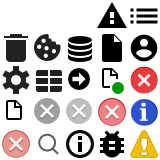
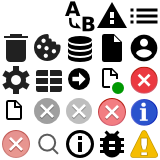
DevTools: revamp replace UI in searchable view
- Remove redundant Find/Previous buttons
- Replace "Replace" checkbox with cool icon
- 'Replace all' button is disabled when 'Replace' is
  also disabled

Screnshot: https://imgur.com/a/gp0SZ

Bug: 631163
Commit-Queue: Erik Luo <luoe@chromium.org>
Cr-Commit-Position: refs/heads/master@{#521438}

Changed region(s): [[0.4062, 0.0, 0.5938, 0.2188]]

diff --git a/front_end/ui/SearchableView.js b/front_end/ui/SearchableView.js
@@ -44,30 +44,18 @@ UI.SearchableView = class extends UI.VBox {
 
     this._searchProvider = searchable;
     this._setting = settingName ? Common.settings.createSetting(settingName, {}) : null;
+    this._replaceable = false;
 
     this.contentElement.createChild('content');
     this._footerElementContainer = this.contentElement.createChild('div', 'search-bar hidden');
     this._footerElementContainer.style.order = 100;
-
-    var toolbar = new UI.Toolbar('', this._footerElementContainer);
-
-    if (this._searchProvider.supportsCaseSensitiveSearch()) {
-      this._caseSensitiveButton = new UI.ToolbarToggle(Common.UIString('Case sensitive'), '');
-      this._caseSensitiveButton.setText('Aa');
-      this._caseSensitiveButton.addEventListener(UI.ToolbarButton.Events.Click, this._toggleCaseSensitiveSearch, this);
-      toolbar.appendToolbarItem(this._caseSensitiveButton);
-    }
-
-    if (this._searchProvider.supportsRegexSearch()) {
-      this._regexButton = new UI.ToolbarToggle(Common.UIString('Regex'), '');
-      this._regexButton.setText('.*');
-      this._regexButton.addEventListener(UI.ToolbarButton.Events.Click, this._toggleRegexSearch, this);
-      toolbar.appendToolbarItem(this._regexButton);
-    }
-
     this._footerElement = this._footerElementContainer.createChild('div', 'toolbar-search');
 
-    // Build the text input elements.
+    var replaceToggleToolbar = new UI.Toolbar('replace-toggle-toolbar', this._footerElement);
+    this._replaceToggleButton = new UI.ToolbarToggle(Common.UIString('Replace'), 'mediumicon-replace');
+    this._replaceToggleButton.addEventListener(UI.ToolbarButton.Events.Click, this._toggleReplace, this);
+    replaceToggleToolbar.appendToolbarItem(this._replaceToggleButton);
+
     var searchInputElements = this._footerElement.createChild('div', 'toolbar-search-inputs');
     var searchControlElement = searchInputElements.createChild('div', 'toolbar-search-control');
 
@@ -100,44 +88,42 @@ UI.SearchableView = class extends UI.VBox {
     this._replaceInputElement.addEventListener('keydown', this._onReplaceKeyDown.bind(this), true);
     this._replaceInputElement.placeholder = Common.UIString('Replace');
 
-    // Build the buttons (Find, Previous, Replace, Replace All).
-    this._buttonsContainer = this._footerElement.createChild('div', 'toolbar-search-buttons hidden');
+    this._buttonsContainer = this._footerElement.createChild('div', 'toolbar-search-buttons');
+    var firstRowButtons = this._buttonsContainer.createChild('div', 'first-row-buttons');
 
-    var findButtonElement =
-        UI.createTextButton(Common.UIString('Find'), this._onFindClick.bind(this), 'search-action-button');
-    findButtonElement.tabIndex = -1;
-    this._buttonsContainer.appendChild(findButtonElement);
+    var toolbar = new UI.Toolbar('', firstRowButtons);
 
-    var prevButtonElement =
-        UI.createTextButton(Common.UIString('Previous'), this._onPreviousClick.bind(this), 'search-action-button');
-    prevButtonElement.tabIndex = -1;
-    this._buttonsContainer.appendChild(prevButtonElement);
+    if (this._searchProvider.supportsCaseSensitiveSearch()) {
+      this._caseSensitiveButton = new UI.ToolbarToggle(Common.UIString('Case sensitive'));
+      this._caseSensitiveButton.setText('Aa');
+      this._caseSensitiveButton.addEventListener(UI.ToolbarButton.Events.Click, this._toggleCaseSensitiveSearch, this);
+      toolbar.appendToolbarItem(this._caseSensitiveButton);
+    }
+
+    if (this._searchProvider.supportsRegexSearch()) {
+      this._regexButton = new UI.ToolbarToggle('');
+      this._regexButton.setText('/regex/');
+      this._regexButton.addEventListener(UI.ToolbarButton.Events.Click, this._toggleRegexSearch, this);
+      toolbar.appendToolbarItem(this._regexButton);
+    }
+
+    var cancelButtonElement =
+        UI.createTextButton(Common.UIString('Cancel'), this.closeSearch.bind(this), 'search-action-button');
+    firstRowButtons.appendChild(cancelButtonElement);
+
+    this._secondRowButtons = this._buttonsContainer.createChild('div', 'second-row-buttons hidden');
 
     this._replaceButtonElement =
         UI.createTextButton(Common.UIString('Replace'), this._replace.bind(this), 'search-action-button');
     this._replaceButtonElement.disabled = true;
-    this._replaceButtonElement.tabIndex = -1;
-    this._buttonsContainer.appendChild(this._replaceButtonElement);
+    this._secondRowButtons.appendChild(this._replaceButtonElement);
 
-    var replaceAllButtonElement =
+    this._replaceAllButtonElement =
         UI.createTextButton(Common.UIString('Replace all'), this._replaceAll.bind(this), 'search-action-button');
-    this._buttonsContainer.appendChild(replaceAllButtonElement);
+    this._secondRowButtons.appendChild(this._replaceAllButtonElement);
+    this._replaceAllButtonElement.disabled = true;
 
-    // Build the replace checkbox and cancel button.
-    this._replaceElement = this._footerElement.createChild('div').createChild('span', 'toolbar-replace-checkbox');
-
-    var replaceLabelElement = UI.CheckboxLabel.create(Common.UIString('Replace'));
-    this._replaceCheckboxElement = replaceLabelElement.checkboxElement;
-    this._replaceCheckboxElement.addEventListener('change', this._updateSecondRowVisibility.bind(this), false);
-
-    this._replaceElement.appendChild(replaceLabelElement);
-
-    var cancelButtonElement =
-        UI.createTextButton(Common.UIString('Cancel'), this.closeSearch.bind(this), 'search-action-button');
-    cancelButtonElement.tabIndex = -1;
     this._minimalSearchQuerySize = 3;
-    this._footerElement.createChild('div').appendChild(cancelButtonElement);
-
     this._loadSetting();
   }
 
@@ -164,6 +150,11 @@ UI.SearchableView = class extends UI.VBox {
     this._regexButton.setToggled(!this._regexButton.toggled());
     this._saveSetting();
     this._performSearch(false, true);
+  }
+
+  _toggleReplace() {
+    this._replaceToggleButton.setToggled(!this._replaceToggleButton.toggled());
+    this._updateSecondRowVisibility();
   }
 
   _saveSetting() {
@@ -303,6 +294,7 @@ UI.SearchableView = class extends UI.VBox {
    */
   _updateSearchNavigationButtonState(enabled) {
     this._replaceButtonElement.disabled = !enabled;
+    this._replaceAllButtonElement.disabled = !enabled;
     if (enabled) {
       this._searchNavigationPrevElement.classList.add('enabled');
       this._searchNavigationNextElement.classList.add('enabled');
@@ -350,9 +342,9 @@ UI.SearchableView = class extends UI.VBox {
   }
 
   _updateReplaceVisibility() {
-    this._replaceElement.classList.toggle('hidden', !this._replaceable);
+    this._replaceToggleButton.setVisible(this._replaceable);
     if (!this._replaceable) {
-      this._replaceCheckboxElement.checked = false;
+      this._replaceToggleButton.setToggled(false);
       this._updateSecondRowVisibility();
     }
   }
@@ -465,11 +457,10 @@ UI.SearchableView = class extends UI.VBox {
   }
 
   _updateSecondRowVisibility() {
-    var secondRowVisible = this._replaceCheckboxElement.checked;
+    var secondRowVisible = this._replaceToggleButton.toggled();
     this._footerElementContainer.classList.toggle('replaceable', secondRowVisible);
-    this._buttonsContainer.classList.toggle('hidden', !secondRowVisible);
+    this._secondRowButtons.classList.toggle('hidden', !secondRowVisible);
     this._replaceInputElement.classList.toggle('hidden', !secondRowVisible);
-    this._replaceCheckboxElement.tabIndex = secondRowVisible ? -1 : 0;
 
     if (secondRowVisible)
       this._replaceInputElement.focus();

diff --git a/front_end/ui/searchableView.css b/front_end/ui/searchableView.css
@@ -29,12 +29,6 @@
     outline: none;
 }
 
-.toolbar-replace-checkbox {
-    margin-top: 4px;
-    margin-right: 2px;
-    display: block;
-}
-
 .toolbar-search {
     display: flex;
     width: 100%;
@@ -81,7 +75,8 @@
 }
 
 .toolbar-search-buttons {
-    flex-basis: 182px;
+    display: flex;
+    flex-direction: column;
 }
 
 .toolbar-replace-control,
@@ -131,4 +126,13 @@
     padding: 0 4px;
     color: rgb(165, 165, 165);
     align-self: center;
+}
+
+.first-row-buttons {
+    display: flex;
+    justify-content: space-between;
+}
+
+.toolbar-search > .replace-toggle-toolbar {
+    margin: 0 -3px 0 0;
 }

diff --git a/front_end/ui/Icon.js b/front_end/ui/Icon.js
@@ -168,6 +168,7 @@ UI.Icon.Descriptors = {
   'mediumicon-red-cross-active': {position: 'd2', spritesheet: 'mediumicons'},
   'mediumicon-red-cross-hover': {position: 'a1', spritesheet: 'mediumicons'},
   'mediumicon-search': {position: 'b1', spritesheet: 'mediumicons'},
+  'mediumicon-replace': {position: 'c5', spritesheet: 'mediumicons', isMask: true},
   'mediumicon-account-circle': {position: 'e4', spritesheet: 'mediumicons'},
   'mediumicon-warning-triangle': {position: 'e1', spritesheet: 'mediumicons'},
   'mediumicon-error-circle': {position: 'e3', spritesheet: 'mediumicons'},

diff --git a/front_end/sources_test_runner/SearchTestRunner.js b/front_end/sources_test_runner/SearchTestRunner.js
@@ -99,7 +99,7 @@ SourcesTestRunner.replaceAndDumpChange = function(sourceFrame, searchConfig, rep
   searchableView._caseSensitiveButton.setToggled(searchConfig.caseSensitive);
   searchableView._regexButton.setToggled(searchConfig.isRegex);
   searchableView._searchInputElement.value = searchConfig.query;
-  searchableView._replaceCheckboxElement.checked = true;
+  searchableView._replaceToggleButton.setToggled(true);
   searchableView._updateSecondRowVisibility();
   searchableView._replaceInputElement.value = replacement;
   searchableView._performSearch(true, true);

diff --git a/front_end/ui/toolbar.css b/front_end/ui/toolbar.css
@@ -110,7 +110,7 @@
     cursor: pointer;
 }
 
-:not(.toolbar-render-as-links) .toolbar-button:not(.toolbar-has-glyph):not(.toolbar-has-dropdown):not(.largeicon-menu):hover {
+.toolbar-toggled-gray:not(.toolbar-render-as-links) .toolbar-button:not(.toolbar-has-glyph):not(.toolbar-has-dropdown):not(.largeicon-menu):hover {
     background-color: #f3f3f3;
 }
 
